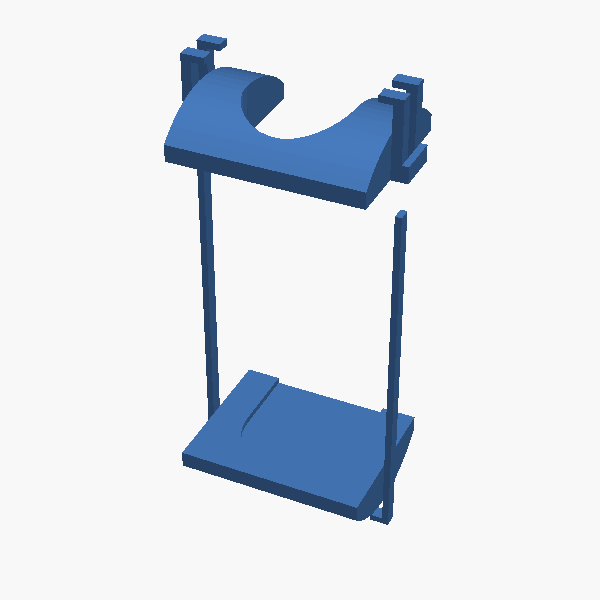
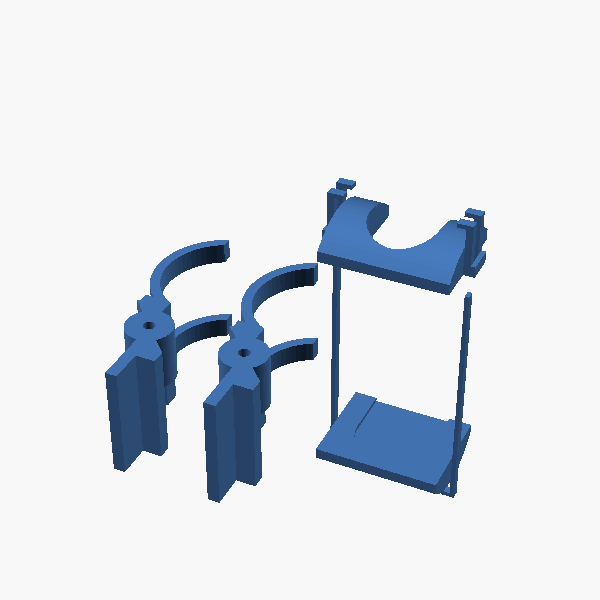
updates

Changed region(s): [[0.18, 0.06, 0.81, 0.87]]

diff --git a/generate_readmes.py b/generate_readmes.py
@@ -34,7 +34,9 @@ REPO_ROOT = Path(__file__).resolve().parent
 SKIP_DIRS = {".git", "renders", "backups", "__pycache__", ".venv"}
 
 MODEL_EXTS = {".scad", ".stl", ".3mf"}
-IMAGE_EXTS = {".jpg", ".jpeg", ".png"}
+# Supplemental images discovered in model directories (non-recursive).
+# Intentionally excludes .png so top-level PNGs can be managed manually in README.
+IMAGE_EXTS = {".jpg", ".jpeg"}
 
 RENDER_DIRNAME = "renders"
 IMG_SIZE = (600, 600)

diff --git a/office floor project/README.md b/office floor project/README.md
@@ -45,14 +45,6 @@
 - Variant STL: [2025-03-30 flooring edges - 1 - back outside.stl](2025-03-30%20flooring%20edges%20-%201%20-%20back%20outside.stl), [2025-03-30 flooring edges - 10 - far side edging.stl](2025-03-30%20flooring%20edges%20-%2010%20-%20far%20side%20edging.stl), [2025-03-30 flooring edges - 11 - extra platform corner.stl](2025-03-30%20flooring%20edges%20-%2011%20-%20extra%20platform%20corner.stl), [2025-03-30 flooring edges - 2 - back inside.stl](2025-03-30%20flooring%20edges%20-%202%20-%20back%20inside.stl), [2025-03-30 flooring edges - 3 - front outside.stl](2025-03-30%20flooring%20edges%20-%203%20-%20front%20outside.stl), [2025-03-30 flooring edges - 4 - front inside.stl](2025-03-30%20flooring%20edges%20-%204%20-%20front%20inside.stl), [2025-03-30 flooring edges - 5 - left inside.stl](2025-03-30%20flooring%20edges%20-%205%20-%20left%20inside.stl), [2025-03-30 flooring edges - 5.stl](2025-03-30%20flooring%20edges%20-%205.stl), [2025-03-30 flooring edges - 6 - left outside.stl](2025-03-30%20flooring%20edges%20-%206%20-%20left%20outside.stl), [2025-03-30 flooring edges - 7 - right inside.stl](2025-03-30%20flooring%20edges%20-%207%20-%20right%20inside.stl), [2025-03-30 flooring edges - 8 - right outside.stl](2025-03-30%20flooring%20edges%20-%208%20-%20right%20outside.stl), [2025-03-30 flooring edges - 9 - side edging.stl](2025-03-30%20flooring%20edges%20-%209%20-%20side%20edging.stl)
 <!-- AUTOGEN:END 2025-03-30 flooring edges -->
 
-## 2025-03-30 flooring edges variable legend
-
-<!-- AUTOGEN:START 2025-03-30 flooring edges variable legend -->
-**Files:**
-
-- Images: [2025-03-30 flooring edges variable legend.png](2025-03-30%20flooring%20edges%20variable%20legend.png)
-<!-- AUTOGEN:END 2025-03-30 flooring edges variable legend -->
-
 ## 2025-04-13 lvp placement prototype
 
 <!-- AUTOGEN:START 2025-04-13 lvp placement prototype -->

diff --git a/useful tools/README.md b/useful tools/README.md
@@ -25,9 +25,12 @@
 ## 2025-12-27 font test
 
 <!-- AUTOGEN:START 2025-12-27 font test -->
+![2025-12-27 font test](renders/2025-12-27%20font%20test.png)
+
 **Files:**
 
 - SCAD: [2025-12-27 font test.scad](2025-12-27%20font%20test.scad)
+- STL: [2025-12-27 font test.stl](2025-12-27%20font%20test.stl)
 <!-- AUTOGEN:END 2025-12-27 font test -->
 
 ## 2025-12-27 font test 2